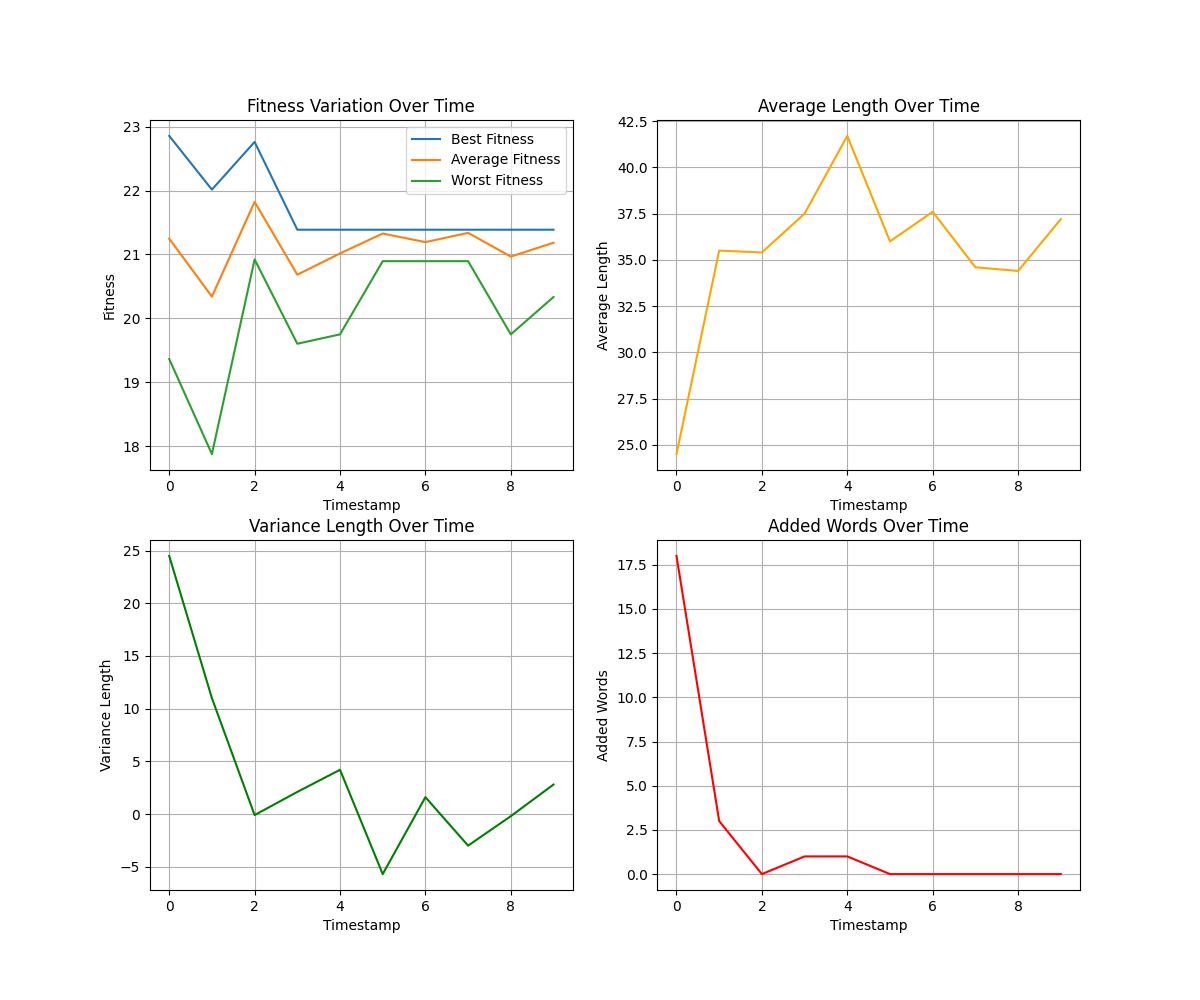
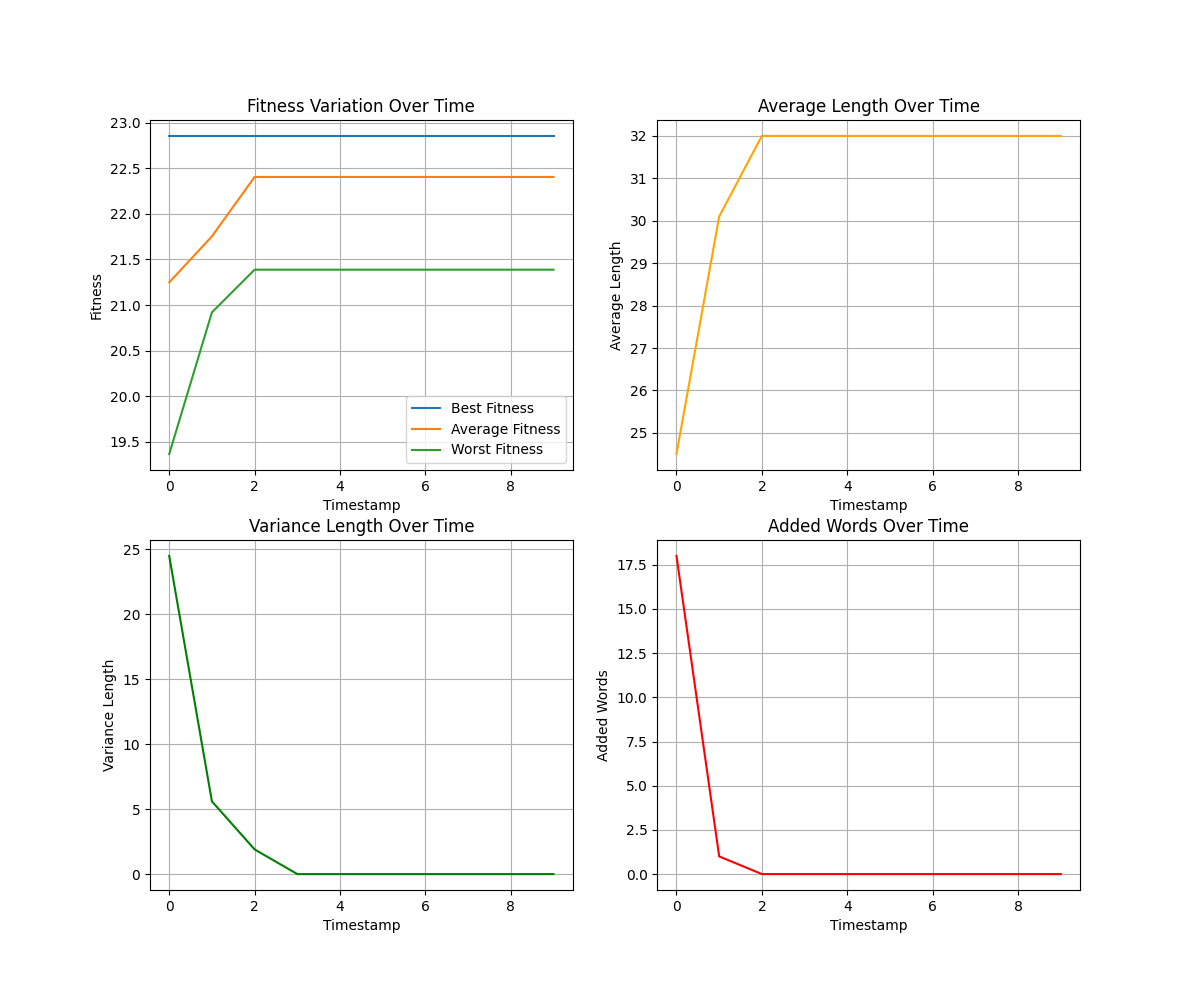
Fixed errors in the main file

diff --git a/main.py b/main.py
@@ -15,6 +15,7 @@ import string
 import matplotlib.pyplot as plt
 import random
 import argparse
+import json
 
 script_dir = os.path.abspath(os.path.dirname(__file__))
 device = "cuda:0"
@@ -94,36 +95,6 @@ def get_fitness(loader, prompt, clip_model, clip_processor):
     similarity = similarity / test_images_number
     
     return similarity
-
-def evaluate(loader, population, clip_model, clip_processor, timestamp, last_average_length, file_name):
-    fitness_scores = [get_fitness(loader, prompt, clip_model, clip_processor) for prompt in tqdm(population, desc="Evaluation")]
-    print(fitness_scores)
-    best_fitness = np.max(fitness_scores)
-    average_fitness = np.average(fitness_scores)
-    worst_fitness = np.min(fitness_scores)
-    average_length = np.average([len(prompt) for prompt in population])
-    variance_length = average_length - last_average_length
-    last_average_length = average_length
-    added_word = 0
-    for prompt in population:
-        for word in prompt.split(" "):
-            word = word.strip().lower().translate(str.maketrans('', '', string.punctuation))
-            if(word not in seen_words):
-                added_word += 1
-                seen_words.append(word)
-
-    tab_metrics = pandas.DataFrame({
-        'timestamp': [timestamp],
-        'best_fitness': [best_fitness],
-        'average_fitness': [average_fitness],
-        'worst_fitness': [worst_fitness],
-        'average_length': [average_length],
-        'variance_length': [variance_length],
-        'added_word': [added_word]
-    })
-    tab_metrics.to_csv(os.path.join(script_dir, f"csv_recap/{file_name}.csv"), mode='a', header=False, index=False)
-
-    return (fitness_scores, last_average_length)
 
 # Extract the final prompt wrapped in <prompt> tags
 def get_final_prompt(text):
@@ -237,7 +208,6 @@ def truncated_rank_selection(fitness_scores, population, children_number):
 def ga_run(loader, initial_population, clip_model, clip_processor, model, tokenizer, generations=10, pop_size=50, children_number=100, selection_index=0, file_name="TEST"):
     last_average_length = 0
     population = initial_population
-    children = []
     best_prompt = None
     best_score = -float('inf')
 
@@ -259,7 +229,32 @@ def ga_run(loader, initial_population, clip_model, clip_processor, model, tokeni
         print("Saved initial fitness scores to file.") """
         
     # Evaluate the fitness of the initial population
-    (fitness_scores, last_average_length) = evaluate(loader, population, clip_model, clip_processor, 0, last_average_length, file_name)
+    fitness_scores = [get_fitness(loader, prompt, clip_model, clip_processor) for prompt in tqdm(population, desc="Evaluation")]
+
+    best_fitness = np.max(fitness_scores)
+    average_fitness = np.average(fitness_scores)
+    worst_fitness = np.min(fitness_scores)
+    average_length = np.average([len(prompt) for prompt in population])
+    variance_length = average_length - last_average_length
+    last_average_length = average_length
+    added_word = 0
+    for prompt in population:
+        for word in prompt.split(" "):
+            word = word.strip().lower().translate(str.maketrans('', '', string.punctuation))
+            if(word not in seen_words):
+                added_word += 1
+                seen_words.append(word)
+
+    tab_metrics = pandas.DataFrame({
+        'timestamp': [0],
+        'best_fitness': [best_fitness],
+        'average_fitness': [average_fitness],
+        'worst_fitness': [worst_fitness],
+        'average_length': [average_length],
+        'variance_length': [variance_length],
+        'added_word': [added_word]
+    })
+    tab_metrics.to_csv(os.path.join(script_dir, f"csv_recap/{file_name}.csv"), mode='a', header=False, index=False)
 
     for generation in range(generations):
         print(f"=== Generation {generation + 1}/{generations} ===")
@@ -270,9 +265,8 @@ def ga_run(loader, initial_population, clip_model, clip_processor, model, tokeni
             best_score = max_score
             best_prompt = population[fitness_scores.index(max_score)]
 
-        print(f"Best Score in Generation {generation + 1}: {max_score}")
-
         # Print the current population and fitness scores
+        print(f"Best Score in Generation {generation + 1}: {max_score}")
         print("Population and Fitness Scores:")
         for i, (prompt, score) in enumerate(zip(population, fitness_scores)):
             print(f"  {i + 1}. {prompt} -> Fitness: {score:.4f}")
@@ -288,6 +282,7 @@ def ga_run(loader, initial_population, clip_model, clip_processor, model, tokeni
             else:
                 raise("Wrong selection index")
 
+            children=[]
             # Crossover and mutation to generate children
             for _ in tqdm(range(children_number), desc="Generation"):
                 parent1, parent2 = random.sample(selected_parents, 2)
@@ -295,7 +290,7 @@ def ga_run(loader, initial_population, clip_model, clip_processor, model, tokeni
                 children.append(child)
 
             # Compute fitness scores only for the new population
-            (new_fitness_scores, last_average_length) = evaluate(loader, new_population, clip_model, clip_processor, generation + 1, last_average_length, file_name)
+            children_fitness_scores = [get_fitness(loader, prompt, clip_model, clip_processor) for prompt in tqdm(children, desc="Evaluation")]
 
             # Combine the old population and new children
             combined_population = population + children
@@ -305,6 +300,31 @@ def ga_run(loader, initial_population, clip_model, clip_processor, model, tokeni
             sorted_indices = sorted(range(len(combined_fitness_scores)), key=lambda i: combined_fitness_scores[i], reverse=True)
             population = [combined_population[i] for i in sorted_indices[:pop_size]]
             fitness_scores = [combined_fitness_scores[i] for i in sorted_indices[:pop_size]]
+
+            best_fitness = np.max(fitness_scores)
+            average_fitness = np.average(fitness_scores)
+            worst_fitness = np.min(fitness_scores)
+            average_length = np.average([len(prompt) for prompt in population])
+            variance_length = average_length - last_average_length
+            last_average_length = average_length
+            added_word = 0
+            for prompt in population:
+                for word in prompt.split(" "):
+                    word = word.strip().lower().translate(str.maketrans('', '', string.punctuation))
+                    if(word not in seen_words):
+                        added_word += 1
+                        seen_words.append(word)
+
+            tab_metrics = pandas.DataFrame({
+                'timestamp': [generation + 1],
+                'best_fitness': [best_fitness],
+                'average_fitness': [average_fitness],
+                'worst_fitness': [worst_fitness],
+                'average_length': [average_length],
+                'variance_length': [variance_length],
+                'added_word': [added_word]
+            })
+            tab_metrics.to_csv(os.path.join(script_dir, f"csv_recap/{file_name}.csv"), mode='a', header=False, index=False)
 
     return best_prompt, best_score
 
@@ -431,8 +451,8 @@ if __name__ == "__main__":
     # Quantization settings
     quantization_config = BitsAndBytesConfig(load_in_8bit=True)
     weights_dir = os.path.normpath(os.path.join(script_dir, "weights/alpaca/"))
-    alpaca_model = transformers.AutoModelForCausalLM.from_pretrained(weights_dir, quantization_config=quantization_config)
-    #alpaca_model = transformers.AutoModelForCausalLM.from_pretrained(os.path.join(script_dir,"weights/alpaca/"), device_map="auto")
+    #alpaca_model = transformers.AutoModelForCausalLM.from_pretrained(weights_dir, quantization_config=quantization_config)
+    alpaca_model = transformers.AutoModelForCausalLM.from_pretrained(os.path.join(script_dir,"weights/alpaca/"), device_map="auto")
     print("Model directory: ", weights_dir)
     alpaca_tokenizer = transformers.AutoTokenizer.from_pretrained(weights_dir)
 

diff --git a/run.py b/run.py
@@ -3,16 +3,17 @@ import re
 
 # Define parameter combinations
 configs = [
+    "--generations 10 --population 10 --children 10 --selection 1",
     "--generations 10 --population 10 --children 10 --selection 2",
     "--generations 10 --population 10 --children 20 --selection 0",
     "--generations 10 --population 10 --children 20 --selection 1",
     "--generations 10 --population 10 --children 20 --selection 2",
-    "--generations 10 --population 50 --children 100 --selection 0",
-    "--generations 10 --population 50 --children 100 --selection 1",
-    "--generations 10 --population 50 --children 100 --selection 2",
     "--generations 10 --population 50 --children 50 --selection 0",
     "--generations 10 --population 50 --children 50 --selection 1",
-    "--generations 10 --population 50 --children 50 --selection 2"
+    "--generations 10 --population 50 --children 50 --selection 2",
+    "--generations 10 --population 50 --children 100 --selection 0",
+    "--generations 10 --population 50 --children 100 --selection 1",
+    "--generations 10 --population 50 --children 100 --selection 2"
 ]
 
 # Iterate over each configuration and execute the script sequentially
